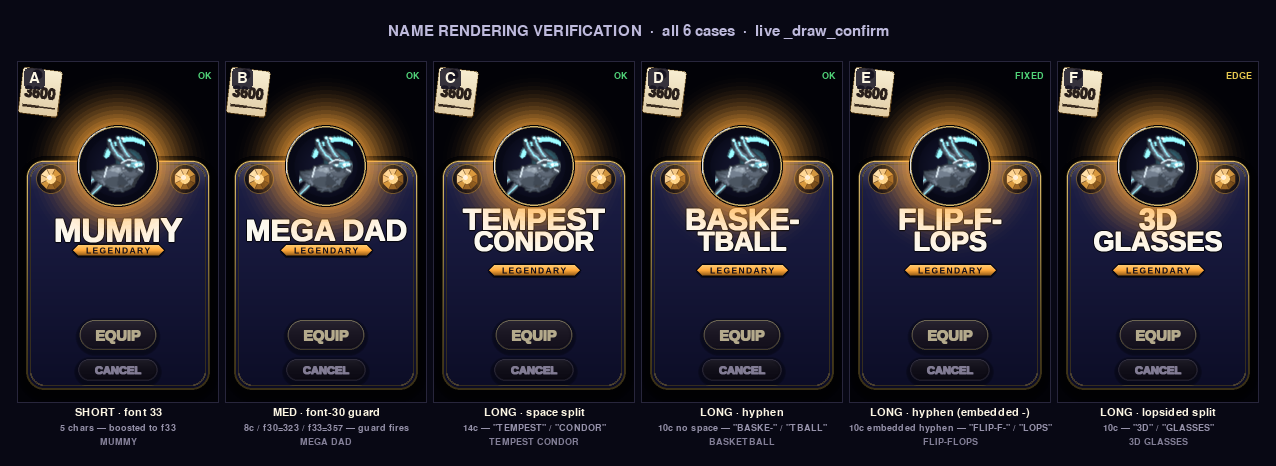
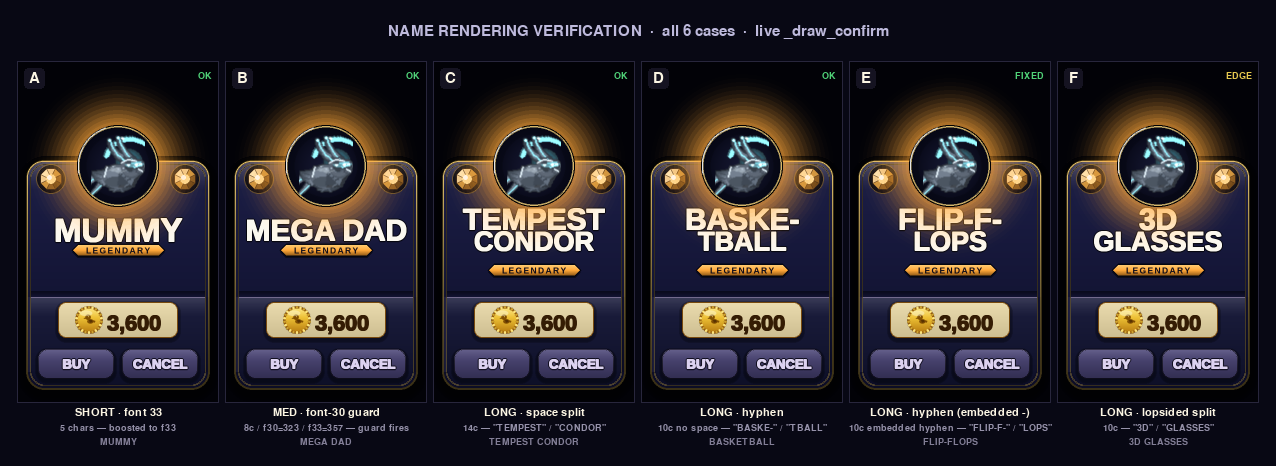
Restore option-B bottom layout in _draw_confirm + fix FLIP-FLOPS hyphen
Wire the full option-B shelf+button design into the buy-confirm popup:
shelf panel (indigo gradient, rounded bottom corners, top lip), rectangular
coin chip (120×36) at y=258 inside shelf, and side-by-side BUY/CANCEL
gradient buttons at y=302 — replacing the wrong single-EQUIP layout.

Also add skip guards in the single-word hyphenation loop so embedded
hyphens (e.g. FLIP-FLOPS) don't produce double-hyphen on line 1.

Regenerate verify.png (6 panels A–F, all cases confirmed).

Claude-Session: https://claude.ai/code/session_01DaGYw11VdAubog2VGiiucC

diff --git a/game/store.py b/game/store.py
@@ -923,9 +923,11 @@ class StoreScene:
         GEM_R, GEM_CY, GEM_L_X, GEM_R_X = 11, 117, 33, 167
         NAME_FS, Y_NAME = 30, 168
         Y_BANNER, BANNER_W = 188, 120
-        Y_CHIP, CHIP_H = 229, 28
-        Y_BTN, BTN_H, BTN_W = 273, 30, 136
-        Y_CANCEL, CANCEL_H, CANCEL_W = 308, 22, 80
+        SHELF_X, SHELF_Y, SHELF_W, SHELF_H = 13, 235, 174, 87
+        CHIP_CY = 258
+        BTN_W, BTN_H, BTN_RAD, BTN_CY, BTN_GAP = 76, 30, 9, 302, 8
+        BUY_CX = CX - (BTN_W + BTN_GAP) // 2
+        CAN_CX = CX + (BTN_W + BTN_GAP) // 2
 
         big = pygame.Surface((POP_W * SS, POP_H * SS), pygame.SRCALPHA)
 
@@ -957,6 +959,54 @@ class StoreScene:
 
         def _nw(txt, font):
             return store_cards._glyph_base(txt, font, 0).get_width()
+
+        def _btn(rect, label, locked=False):
+            rad = m(BTN_RAD)
+            stops = ([(0.0, (42, 40, 50)), (1.0, (28, 26, 36))] if locked
+                     else [(0.0, (84, 78, 126)), (1.0, (50, 46, 82))])
+            lab_col = (90, 88, 108) if locked else (220, 210, 240)
+            sheen   = 12 if locked else 28
+            store_cards.drop_shadow(big, rect, rad, blur=m(3), alpha=100, dy=m(2))
+            big.blit(store_cards.vgrad_stops(rect.w, rect.h, rad, stops, 255),
+                     rect.topleft)
+            store_cards.top_sheen(big, rect, rad, m(12), peak=sheen)
+            store_cards.bevel_rim(big, rect, rad, (20, 18, 36, 180),
+                                  (130, 124, 160, 200), w=max(1, m(1.2)))
+            store_cards.plain_text(big, label, store_cards.font(13), rect.center,
+                                   lab_col, shadow_a=110, weight=m(0.8),
+                                   keyline=(18, 16, 32), kw=m(0.9))
+
+        def _chip(cx, cy):
+            CHIP_W, CHIP_H, CHIP_RAD = 120, 36, 8
+            chip = pygame.Rect(0, 0, m(CHIP_W), m(CHIP_H))
+            chip.center = (cx, cy)
+            crad = m(CHIP_RAD)
+            store_cards.drop_shadow(big, chip, crad, blur=m(3), alpha=90, dy=m(2))
+            face_stops = ([(0.0, (235, 220, 175)), (1.0, (205, 190, 145))] if affordable
+                          else [(0.0, (60, 60, 74)), (1.0, (44, 44, 58))])
+            border = (120, 74, 14) if affordable else (78, 80, 96)
+            big.blit(store_cards.vgrad_stops(chip.w, chip.h, crad, face_stops, 255),
+                     chip.topleft)
+            pygame.draw.rect(big, border, chip, width=max(1, m(1)), border_radius=crad)
+            txt      = f"{price:,}"
+            num_font = store_cards.font(22)
+            coin_r   = m(14)
+            gap      = m(4)
+            num_w    = num_font.size(txt)[0]
+            total    = coin_r * 2 + gap + num_w
+            left     = cx - total // 2
+            coin_cx  = left + coin_r
+            num_cx   = left + coin_r * 2 + gap + num_w // 2
+            if affordable:
+                store_cards.coin_glyph(big, coin_cx, cy, coin_r)
+                num_col = (52, 28, 4)
+            else:
+                pygame.draw.circle(big, (150, 152, 162), (coin_cx, cy), coin_r)
+                pygame.draw.circle(big, (108, 112, 126), (coin_cx, cy), coin_r,
+                                   width=max(1, m(1)))
+                num_col = (110, 115, 130)
+            store_cards.plain_text(big, txt, num_font, (num_cx, cy + m(3)), num_col,
+                                   shadow_a=0, weight=m(0.8))
 
         active_banner_y = Y_BANNER
         if _nw(name, _nf30) <= safe_w:
@@ -999,30 +1049,58 @@ class StoreScene:
         # ── rarity banner ─────────────────────────────────────────────────────
         store_cards._ribbon_lozenge(big, tier_word, m(CX), m(active_banner_y), m(BANNER_W), pal)
 
-        # ── price chip ────────────────────────────────────────────────────────
-        store_cards.price_chip(big, m(CX), m(Y_CHIP), f"{price:,}",
-                               m(CHIP_H), affordable=affordable)
+        # ── shelf ─────────────────────────────────────────────────────────────
+        shelf_rect  = pygame.Rect(m(SHELF_X), m(SHELF_Y), m(SHELF_W), m(SHELF_H))
+        shelf_rad   = m(CARD_RAD)
+        shelf_stops = ([(0.0, (28, 30, 62)), (1.0, (14, 16, 40))] if affordable
+                       else [(0.0, (30, 32, 52)), (0.5, (22, 22, 42)),
+                             (1.0, (14, 14, 30))])
+        shelf = store_cards.vgrad_stops(
+            shelf_rect.w, shelf_rect.h, 0, shelf_stops, 255).copy()
+        smask = pygame.Surface(shelf_rect.size, pygame.SRCALPHA)
+        pygame.draw.rect(smask, (255, 255, 255, 255), smask.get_rect(),
+                         border_bottom_left_radius=shelf_rad,
+                         border_bottom_right_radius=shelf_rad)
+        shelf.blit(smask, (0, 0), special_flags=pygame.BLEND_RGBA_MIN)
+        store_cards.top_sheen(shelf, shelf.get_rect(), 0, m(20), peak=35)
+        lip = (115, 106, 140) if affordable else (62, 62, 86)
+        pygame.draw.line(shelf, lip, (0, 0), (shelf_rect.w - 1, 0), max(1, m(1)))
+        seat = pygame.Surface((shelf_rect.w, m(6)), pygame.SRCALPHA)
+        for _yy in range(m(6)):
+            _a = int(120 * (1 - _yy / m(6)))
+            pygame.draw.line(seat, (0, 0, 0, _a), (0, _yy), (shelf_rect.w - 1, _yy))
+        big.blit(seat, (shelf_rect.x, shelf_rect.y - m(6)))
+        big.blit(shelf, shelf_rect.topleft)
+        wall_draw_h = m(CARD_TOP + CARD_H - CARD_RAD - SHELF_Y)
+        if wall_draw_h > 0:
+            wall_w = m(SHELF_X - CARD_X)
+            for _col_fn, _bx in [
+                (lambda xx: (130, 120, 165, int(50 * xx / max(1, wall_w - 1))),
+                 m(CARD_X)),
+                (lambda xx: (0, 0, 0, int(50 * (1 - xx / max(1, wall_w - 1)))),
+                 m(SHELF_X + SHELF_W)),
+            ]:
+                _wall = pygame.Surface((wall_w, wall_draw_h), pygame.SRCALPHA)
+                for _xx in range(wall_w):
+                    pygame.draw.line(_wall, _col_fn(_xx),
+                                     (_xx, 0), (_xx, wall_draw_h - 1))
+                big.blit(_wall, (_bx, m(SHELF_Y)))
+
+        # ── coin chip (inside shelf) ───────────────────────────────────────────
+        _chip(m(CX), m(CHIP_CY))
 
         if not affordable:
-            store_cards.plain_text(big, "NOT ENOUGH COINS",
-                                   store_cards.font(9), (m(CX), m(251)),
+            store_cards.plain_text(big, "NOT ENOUGH",
+                                   store_cards.font(8), (m(CX), m(317)),
                                    (150, 166, 190), shadow_a=0)
 
-        # ── equip chip ────────────────────────────────────────────────────────
-        equip_r = store_cards.status_chip(
-            big, m(CX), m(Y_BTN), "EQUIP", m(BTN_H), kind="equip"
-        )
-
-        # ── cancel button ─────────────────────────────────────────────────────
-        h_can = m(CANCEL_H)
-        w_can = m(CANCEL_W)
-        can_r = pygame.Rect(m(CX) - w_can // 2, m(Y_CANCEL) - h_can // 2,
-                            w_can, h_can)
-        store_cards._dark_chip_body(big, can_r, h_can // 2,
-                                    [(0.0, (18, 16, 26)), (1.0, (12, 10, 20))],
-                                    (30, 28, 42), (70, 66, 82), gloss=14, gamma=1.04)
-        store_cards.plain_text(big, "CANCEL", store_cards.font(11),
-                               can_r.center, (130, 124, 148), shadow_a=0)
+        # ── buy / cancel buttons ───────────────────────────────────────────────
+        buy_r = pygame.Rect(0, 0, m(BTN_W), m(BTN_H))
+        buy_r.center = (m(BUY_CX), m(BTN_CY))
+        can_r = pygame.Rect(0, 0, m(BTN_W), m(BTN_H))
+        can_r.center = (m(CAN_CX), m(BTN_CY))
+        _btn(buy_r, "BUY", locked=not affordable)
+        _btn(can_r, "CANCEL")
 
         # ── overhanging disc + spotlight halo (crowns the card) ───────────────
         cx_ss, cy_ss, r_ss = m(CX), m(DISC_CY), m(R_HERO)
@@ -1049,12 +1127,12 @@ class StoreScene:
 
         # Hit rects in screen space (logical coords map 1:1 post-downscale).
         self.confirm_no_rect = pygame.Rect(
-            px + CX - CANCEL_W // 2, py + Y_CANCEL - CANCEL_H // 2,
-            CANCEL_W, CANCEL_H)
+            px + CAN_CX - BTN_W // 2, py + BTN_CY - BTN_H // 2,
+            BTN_W, BTN_H)
         if affordable:
             self.confirm_yes_rect = pygame.Rect(
-                px + equip_r.x // SS, py + equip_r.y // SS,
-                equip_r.w // SS, equip_r.h // SS)
+                px + BUY_CX - BTN_W // 2, py + BTN_CY - BTN_H // 2,
+                BTN_W, BTN_H)
 
     # ── input ────────────────────────────────────────────────────────────────
     def handle_tap(self, pos) -> "str | None":
